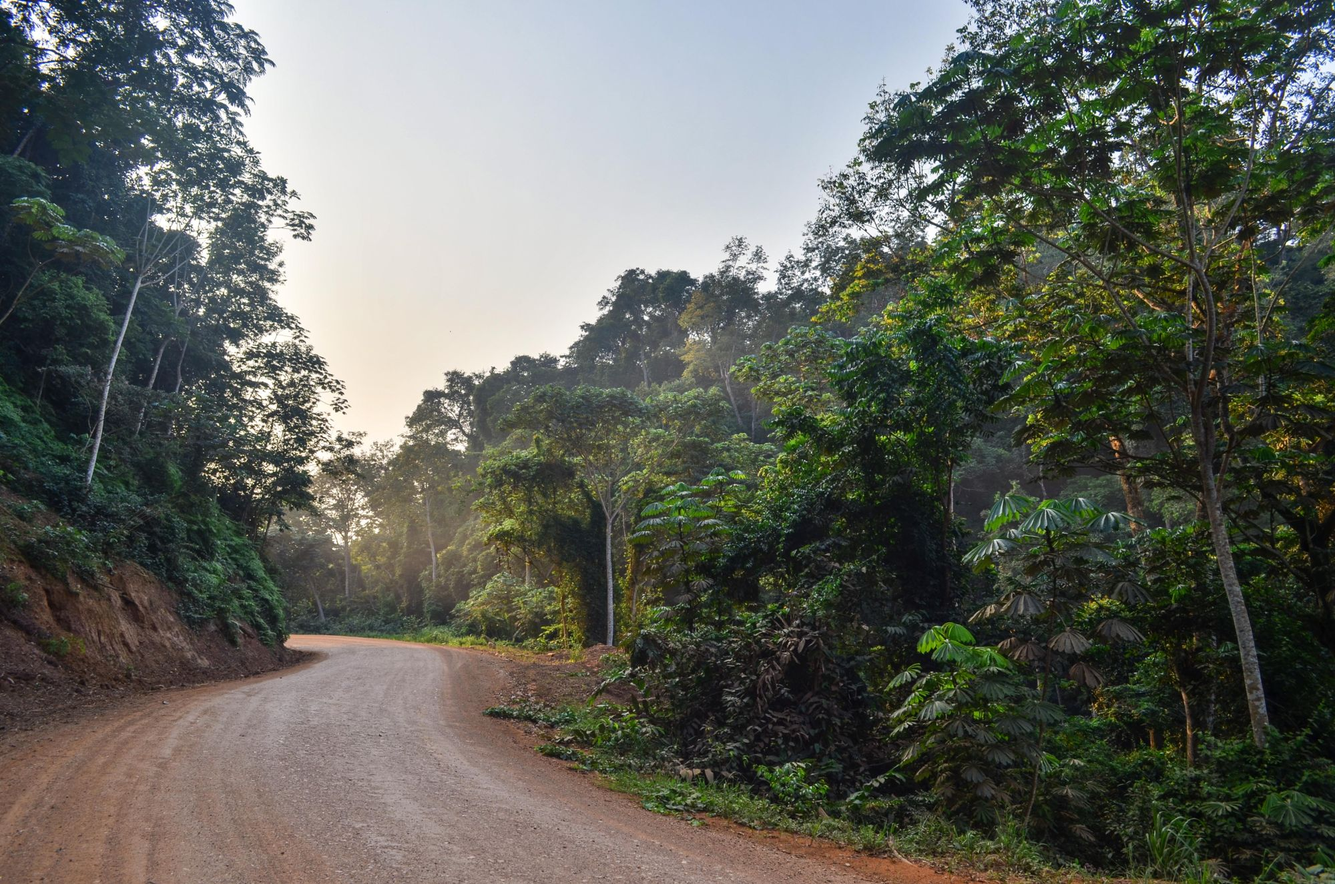
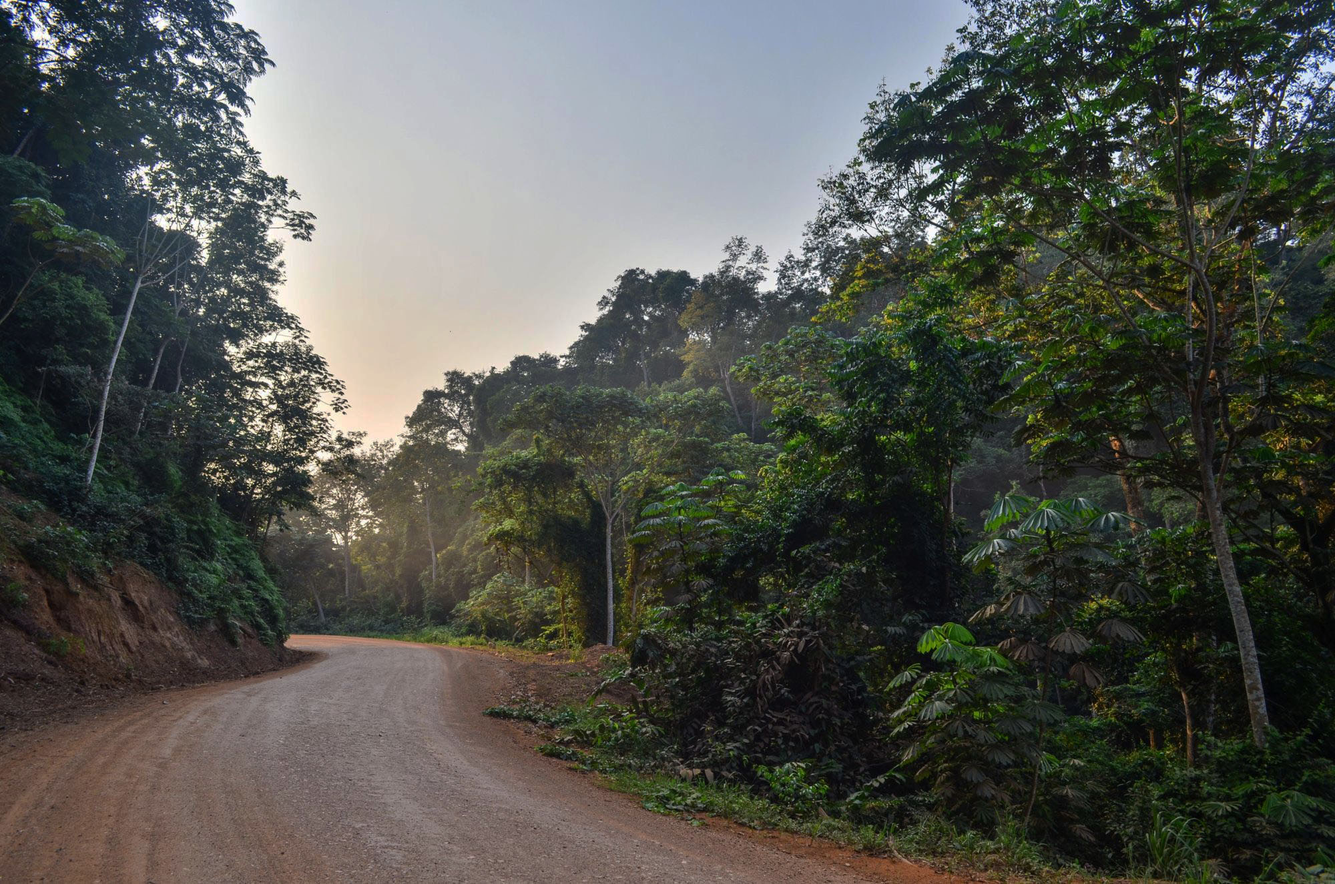
Darkened background images to improve legibility

diff --git a/index.htm b/index.htm
@@ -36,32 +36,34 @@
 
       <body>>
 
-    <!-- Navigation -->
-    <nav class="navbar navbar-default navbar-fixed-top" role="navigation">
-        <div class="container">
+        <!-- Navigation -->
+        <nav class="navbar navbar-default navbar-fixed-top" role="navigation">
+          <div class="container">
             <!-- Brand and toggle get grouped for better mobile display -->
             <div class="navbar-header">
-                <button type="button" class="navbar-toggle" data-toggle="collapse" data-target="#bs-example-navbar-collapse-1">
-                    <span class="sr-only">Toggle navigation</span>
-                    <span class="icon-bar"></span>
-                    <span class="icon-bar"></span>
-                    <span class="icon-bar"></span>
-                </button>
-                <a class="navbar-brand" href="#" id="Title"></a>
+              <button type="button" class="navbar-toggle" data-toggle="collapse" data-target="#bs-example-navbar-collapse-1">
+                <span class="sr-only">Toggle navigation</span>
+                <span class="icon-bar"></span>
+                <span class="icon-bar"></span>
+                <span class="icon-bar"></span>
+              </button>
+              <a class="navbar-brand" href="#" id="Title"></a>
             </div>
             <!-- Collect the nav links, forms, and other content for toggling -->
             <div class="collapse navbar-collapse" id="bs-example-navbar-collapse-1">
-                <ul class="nav navbar-nav pull-right">
-                    <li>
-<button type="button" class="btn btn-default" onclick="langtoggle('fr')" id="FrButton">Français</button>                    </li>
-                    <li>
-<button type="button" class="btn btn-default" onclick="langtoggle('en')" id="EngButton">English</button>                    </li>
-                </ul>
+              <ul class="nav navbar-nav langButtons">
+                <li>
+                  <a href="#" onclick="langtoggle('fr')" id="FrButton">Français</a>
+                </li>
+                <li>
+                  <a href="#" onclick="langtoggle('en')" id="EngButton">English</a>
+                </li>
+              </ul>
             </div>
             <!-- /.navbar-collapse -->
-        </div>
-        <!-- /.container -->
-    </nav>
+          </div>
+          <!-- /.container -->
+        </nav>
 
         <!-- Header Section-->
         <header id="intro" class="intro">
@@ -75,20 +77,20 @@
             <div class="carousel-inner">
               <div class="active item">
                 <div class="carousel-caption">
-                  <p class="h3" id="CaptionTitle1"></p>
-                  <p class="h4" id="Caption1"></p>
+                  <p class="h2" id="CaptionTitle1"></p>
+                  <p class="h3" id="Caption1"></p>
                 </div>
               </div>
               <div class="item">
                 <div class="carousel-caption">
-                  <p class="h3" id="CaptionTitle2"></p>
-                  <p class="h4" id="Caption2"></p>
+                  <p class="h2" id="CaptionTitle2"></p>
+                  <p class="h3" id="Caption2"></p>
                 </div>
               </div>
               <div class="item">
                 <div class="carousel-caption">
-                  <p class="h3" id="CaptionTitle3"></p>
-                  <p class="h4" id="Caption3"></p>
+                  <p class="h2" id="CaptionTitle3"></p>
+                  <p class="h3" id="Caption3"></p>
                 </div>
               </div>
             </div>

diff --git a/css/main.css b/css/main.css
@@ -114,7 +114,7 @@ a:focus {
   }
 
   .carousel-caption {
-    width: 100%;
+    width: 50%;
     top: 20%;
   }
 
@@ -324,6 +324,7 @@ body {
     webkit-tap-highlight-color: rgba(255,255,255,.2);
 }
 
+@media(min-width:768px) {
 .btn {
     text-transform: uppercase;
     font-family: "Fira Sans",Helvetica,sans-serif;
@@ -363,6 +364,7 @@ body {
     -moz-transition: background .3s ease-in-out;
     transition: background .3s ease-in-out;
 }
+}
 
 .navbar .navbar-brand {
   font-size: 1em;
@@ -389,9 +391,19 @@ body {
         transition: all .3s;
     }
 
+    .navbar .langButtons {
+      float: right!important;
+      left: auto;
+    }
+
+
 .navbar {
     text-transform: none;
     font-weight: 700;
+}
+
+.langButtons {
+  margin-left: 5px;
 }
 
 .navbar a:focus {
@@ -416,4 +428,11 @@ body {
   top: 65%;
   bottom: auto;
   text-align: center;
+}
+
+.caption-container {
+  display: inline-block;
+  width: 50%;
+  height: auto;
+  background-color: rgba(255,255,255,0.6);
 }

diff --git a/js/gab.js b/js/gab.js
@@ -2,7 +2,7 @@
     en: {
         FrButton: "Français",
         EngButton: "English",
-        Title: "National Land Use Plan",
+        Title: "National Land Use Plan of Gabon",
         // SubTitle: "The interactive platform",
         Module1: "Current land use",
         Module2: "Planning",
@@ -26,7 +26,7 @@
     fr: {
         FrButton: "Français",
         EngButton: "English",        
-        Title: "Plan National d'Affectation des Terres",
+        Title: "Plan National d'Affectation des Terres du Gabon",
         // SubTitle: "La plate-forme interactive",
         Module1: "Affectation actuelle",
         Module2: "Planification",
